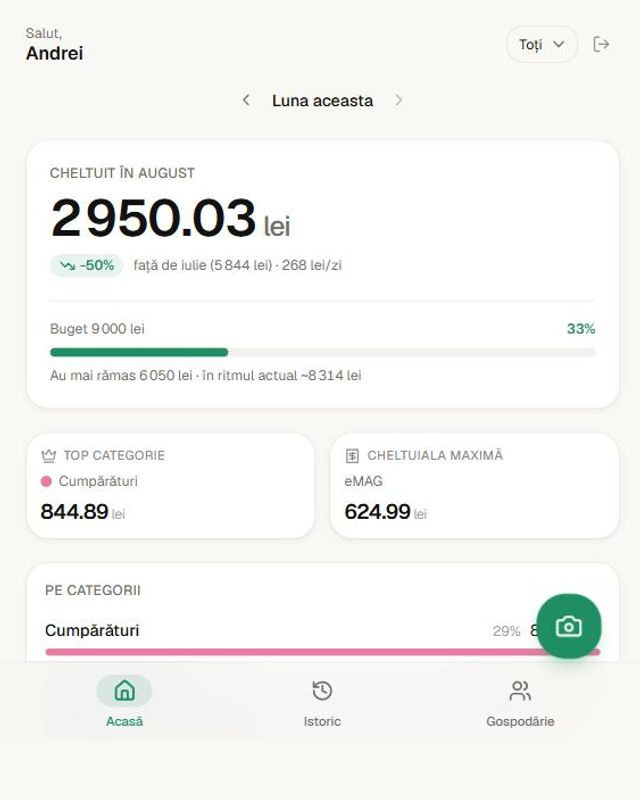
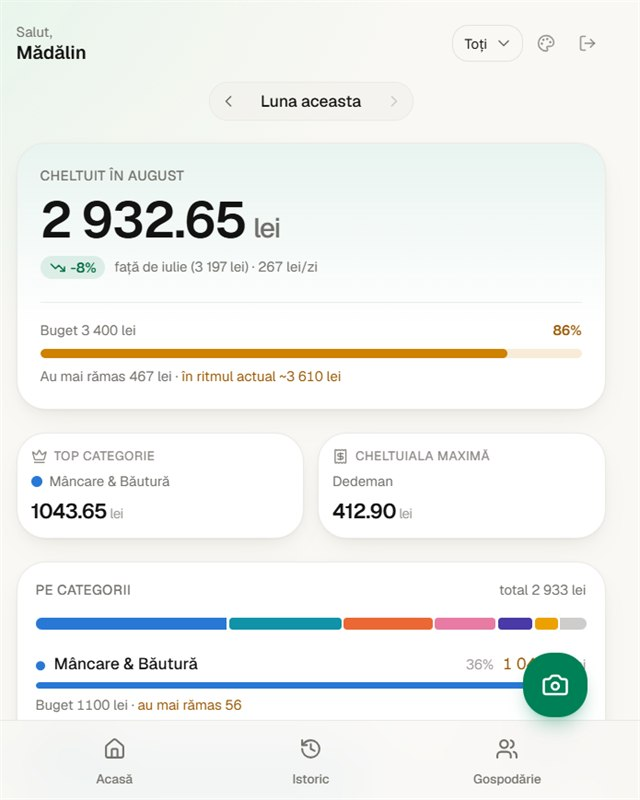
Regenerate the screenshots and rework the README
Every screenshot predates the UI overhaul, so all nine are recaptured against
the new palettes, charts and headers, at the same 640x800 the set already used.
Four more show the same dashboard in each palette — two light, two dark — which
is the one thing a list of feature bullets cannot convey.

They are captured from a seeded household rather than from a real account: a
budget most of the way through, a category over its limit, twelve months of
history, a second member, a pending invitation. The previous set showed
whatever the month happened to look like, so several cards were empty or
uninteresting, and it put real spending into a public repository.

The README itself leads with the product instead of a wall of prose. The
screenshot grid gains a caption per shot saying what the screen is for, the
stack becomes a table, and the setup detail that only matters once — the
environment variable reference — moves behind a disclosure. A new "decisions
worth knowing" section records the five choices a reader would otherwise have
to reverse-engineer from the source: aggregation in Postgres, access enforced
by RLS rather than by the UI, colour chosen by validator rather than by eye,
the theme applied before the first paint, and no chart hiding its numbers
behind a pointer.

diff --git a/README.md b/README.md
@@ -1,55 +1,107 @@
-# SnapBudget
+<div align="center">
 
-Track your expenses by photographing receipts — no manual entry. Snap a photo, OCR extracts the merchant, amount, and date, and the app auto-categorizes the spend. Expenses without a receipt (cash, parking, etc.) can be logged manually, recurring bills add themselves on a schedule, and a whole household can pool its spending into one set of totals. The dashboard surfaces month-over-month trends so spending patterns are visible at a glance, not just totals.
+# 📸 SnapBudget
 
-> The product UI is in Romanian and amounts are in lei (RON), as the screenshots show. Code, comments, and docs are in English.
+**Fotografiază bonul, restul îl facem noi.**
 
-## Screenshots
+Track spending by photographing receipts — no manual entry. Snap a photo, OCR pulls out the merchant, amount and date, and the spend categorizes itself. Cash goes in by hand, rent adds itself on a schedule, and a whole household pools into one set of totals.
+
+<!-- prettier-ignore -->
+[![CI](https://github.com/madalincmc/snapbudget/actions/workflows/ci.yml/badge.svg)](https://github.com/madalincmc/snapbudget/actions/workflows/ci.yml) [![Next.js 16](https://img.shields.io/badge/Next.js-16-000?logo=nextdotjs&logoColor=white)](https://nextjs.org) [![React 19](https://img.shields.io/badge/React-19-087ea4?logo=react&logoColor=white)](https://react.dev) [![TypeScript](https://img.shields.io/badge/TypeScript-strict-3178c6?logo=typescript&logoColor=white)](https://www.typescriptlang.org) [![Tailwind v4](https://img.shields.io/badge/Tailwind-v4-38bdf8?logo=tailwindcss&logoColor=white)](https://tailwindcss.com) [![Supabase](https://img.shields.io/badge/Supabase-RLS-3ecf8e?logo=supabase&logoColor=white)](https://supabase.com) [![Vercel](https://img.shields.io/badge/Vercel-deployed-000?logo=vercel&logoColor=white)](https://vercel.com)
+
+</div>
+
+> [!NOTE]
+> The product UI is in Romanian and amounts are in lei (RON), as the screenshots show.
+> Code, comments and docs are in English.
+
+---
+
+## A look at it
 
 <table>
   <tr>
     <td align="center" width="33%">
-      <img src="docs/screenshots/login.jpg" alt="Sign in with Google" width="260"><br>
-      <sub>Sign in with Google</sub>
+      <img src="docs/screenshots/dashboard-overview.jpg" alt="Dashboard: the month total, how much of the budget is gone, and where the month lands at the current pace" width="250"><br>
+      <b>The number, and whether it's a problem</b><br>
+      <sub>Month total, budget, and the pace projection</sub>
     </td>
     <td align="center" width="33%">
-      <img src="docs/screenshots/receipt-scan.jpg" alt="Photograph or upload a receipt" width="260"><br>
-      <sub>Photograph or upload a receipt</sub>
+      <img src="docs/screenshots/dashboard-trend.jpg" alt="Per-category bars with budget ticks, above a 30-day column chart" width="250"><br>
+      <b>Where it went, day by day</b><br>
+      <sub>Category limits and the 30-day trend</sub>
     </td>
     <td align="center" width="33%">
-      <img src="docs/screenshots/history.jpg" alt="Searchable, filterable expense history" width="260"><br>
-      <sub>Searchable, filterable history</sub>
-    </td>
-  </tr>
-  <tr>
-    <td align="center" width="33%">
-      <img src="docs/screenshots/dashboard-overview.jpg" alt="Dashboard: month total with budget progress, insights and category breakdown" width="260"><br>
-      <sub>Month total, budget &amp; categories</sub>
-    </td>
-    <td align="center" width="33%">
-      <img src="docs/screenshots/dashboard-trend.jpg" alt="Dashboard: per-category budgets and the 30-day spending chart" width="260"><br>
-      <sub>Category limits &amp; 30-day trend</sub>
-    </td>
-    <td align="center" width="33%">
-      <img src="docs/screenshots/budgets.jpg" alt="Monthly budget with pace projection, plus per-category limits" width="260"><br>
-      <sub>Budgets, overall &amp; per category</sub>
+      <img src="docs/screenshots/receipt-scan.jpg" alt="Photograph or upload a receipt" width="250"><br>
+      <b>One tap from anywhere</b><br>
+      <sub>Photograph a receipt, or pick from the gallery</sub>
     </td>
   </tr>
   <tr>
     <td align="center" width="33%">
-      <img src="docs/screenshots/analytics.jpg" alt="Twelve-month spending chart with the average marked, year total and monthly average" width="260"><br>
-      <sub>12 months, average &amp; year total</sub>
+      <img src="docs/screenshots/analytics.jpg" alt="Twelve-month column chart with the average marked, plus year total and monthly average" width="250"><br>
+      <b>Twelve months against your average</b><br>
+      <sub>Year total, monthly mean, per-category trends</sub>
     </td>
     <td align="center" width="33%">
-      <img src="docs/screenshots/recurring.jpg" alt="Recurring expense rules, with pause and resume" width="260"><br>
-      <sub>Recurring rules, pause &amp; resume</sub>
+      <img src="docs/screenshots/history.jpg" alt="Searchable, filterable expense history" width="250"><br>
+      <b>Every expense, findable</b><br>
+      <sub>Search, filter and sort — receipt or manual</sub>
     </td>
     <td align="center" width="33%">
-      <img src="docs/screenshots/household.jpg" alt="Household members and pending invitations" width="260"><br>
-      <sub>Shared household &amp; invitations</sub>
+      <img src="docs/screenshots/budgets.jpg" alt="Monthly budget with pace projection, plus per-category limits" width="250"><br>
+      <b>Limits that warn you early</b><br>
+      <sub>Overall and per category, household or personal</sub>
+    </td>
+  </tr>
+  <tr>
+    <td align="center" width="33%">
+      <img src="docs/screenshots/recurring.jpg" alt="Recurring expense rules, with pause and resume" width="250"><br>
+      <b>Bills that add themselves</b><br>
+      <sub>Rent, subscriptions, utilities — pause any time</sub>
+    </td>
+    <td align="center" width="33%">
+      <img src="docs/screenshots/household.jpg" alt="Household members and pending invitations" width="250"><br>
+      <b>One household, separate accounts</b><br>
+      <sub>Invite by email, enforced by row-level security</sub>
+    </td>
+    <td align="center" width="33%">
+      <img src="docs/screenshots/login.jpg" alt="Sign in with Google" width="250"><br>
+      <b>No password to forget</b><br>
+      <sub>Google sign-in through Supabase</sub>
     </td>
   </tr>
 </table>
+
+### Four palettes, light and dark
+
+The accent hue and the warmth of the neutrals move together; every surface keeps the same
+lightness, so a screen tuned in one palette is tuned in all four. Category colours deliberately
+_don't_ move — they identify a category, and repainting Transport because you changed accent
+would break what you already learned.
+
+<table>
+  <tr>
+    <td align="center" width="25%">
+      <img src="docs/screenshots/palette-smarald.jpg" alt="Smarald palette, light theme" width="220"><br>
+      <sub><b>Smarald</b> · luminos</sub>
+    </td>
+    <td align="center" width="25%">
+      <img src="docs/screenshots/palette-ocean.jpg" alt="Ocean palette, light theme" width="220"><br>
+      <sub><b>Ocean</b> · luminos</sub>
+    </td>
+    <td align="center" width="25%">
+      <img src="docs/screenshots/palette-apus.jpg" alt="Apus palette, dark theme" width="220"><br>
+      <sub><b>Apus</b> · întunecat</sub>
+    </td>
+    <td align="center" width="25%">
+      <img src="docs/screenshots/palette-levantica.jpg" alt="Levănțică palette, dark theme" width="220"><br>
+      <sub><b>Levănțică</b> · întunecat</sub>
+    </td>
+  </tr>
+</table>
+
+---
 
 ## Features
 
@@ -59,31 +111,89 @@ Track your expenses by photographing receipts — no manual entry. Snap a photo,
 - **Household sharing** — create a household and invite others by email. Everyone contributes from their own account and sees the combined totals, and the dashboard can be filtered to one member or just yourself. Owners can cancel invitations and remove members; members can leave. Access is enforced by Postgres row-level security, not just in the UI.
 - **Budgets** — a monthly limit on the total and/or per category. The dashboard shows how much is used, what's left, and where the month lands at the current pace, so going over is visible days before it happens rather than after. In a household the budget can cover everyone's pooled spending or just your own; which one you see follows the same member filter as the rest of the dashboard.
 - **Dashboard insights** — current vs. previous month comparison, average daily spend, top category, biggest expense, and a 30-day spending chart that shades the current month apart from the previous one. Any past month can be selected, and the whole dashboard re-scopes to it.
-- **Charts** — the daily and monthly plots share one column chart: hairline gridlines, a dashed average reference line, a direct label on the peak, and hover/arrow-key readout of any column. Every chart also renders a visually hidden table of the same numbers, so a value is never reachable only by pointer. Category spending gets a stacked composition bar above the ranked list, with the two cross-highlighting each other.
-- **12-month analysis** — totals per month against the average, the calendar-year total, and a per-category trend showing which categories are creeping up. Summed in Postgres rather than in the app, so a year of a shared household's expenses is never pulled into memory to be added up.
+- **Charts** — the daily and monthly plots share one column chart: hairline gridlines, a dashed average reference line, a direct label on the peak, and hover or arrow-key readout of any column. Category spending gets a stacked composition bar above the ranked list, with the two cross-highlighting each other.
+- **12-month analysis** — totals per month against the average, the calendar-year total, and a per-category trend showing which categories are creeping up.
 - **Category breakdown** — spending by category for the current month, with a searchable category/subcategory picker when logging an expense.
 - **History** — search, filter (category, month), and sort every expense, receipt or manual.
-- **Themes and colour palettes** — the dashboard header opens an appearance menu with two independent choices: the theme (automatic / light / dark) and one of four palettes — Smarald, Ocean, Apus, Levănțică. Automatic follows the operating system and keeps following it while the app is open. Both choices are remembered and applied before the first paint, so reopening the app never flashes the wrong colours. Category colours deliberately stay fixed across palettes: they identify a category, and repainting Transport because you changed accent would break what the reader already learned. Budget status (within / near / over) is likewise on reserved semantic colours rather than the accent.
+- **Themes and colour palettes** — an appearance menu with two independent choices: the theme (automatic / light / dark) and one of four palettes. Automatic follows the operating system and keeps following it while the app is open, and both choices survive a reload.
 - **Google sign-in** — auth via Supabase, no separate SnapBudget password.
+
+---
 
 ## Stack
 
-- **Frontend**: Next.js (App Router) + TypeScript + Tailwind CSS + shadcn/ui
-- **Backend & DB**: Supabase (Postgres + Auth + Storage), with row-level security on every table
-- **Scheduling**: `pg_cron` inside Postgres — a nightly sweep generates due recurring expenses, so no service-role key is needed to run it
-- **OCR**: Google Vision API
-- **Payments**: Stripe — env vars are scaffolded (see below) but billing isn't wired into the product yet
-- **Hosting**: Vercel
+| Layer          | What                                                                                                                |
+| -------------- | ------------------------------------------------------------------------------------------------------------------- |
+| **Frontend**   | Next.js 16 (App Router) · React 19 · TypeScript (strict) · Tailwind CSS v4 · shadcn/ui on Base UI                   |
+| **Backend**    | Supabase — Postgres, Auth, Storage — with row-level security on **every** table                                     |
+| **Scheduling** | `pg_cron` inside Postgres: a nightly sweep mints due recurring expenses, so no service-role key is needed to run it |
+| **OCR**        | Google Vision API                                                                                                   |
+| **Payments**   | Stripe — env vars are scaffolded (see below), but billing isn't wired into the product yet                          |
+| **Hosting**    | Vercel — preview per PR, production on merge to `main`                                                              |
+
+## A few decisions worth knowing
+
+<details>
+<summary><b>Aggregation happens in Postgres, not in the app</b></summary>
+
+The 12-month analysis calls a `monthly_spending` RPC that groups and sums in the database. A
+year of a shared household's expenses is exactly the set that should never be pulled into a
+serverless function to be added up there.
+
+</details>
+
+<details>
+<summary><b>Access is enforced by RLS, not by the UI</b></summary>
+
+Household visibility, budget scoping and every read path go through row-level security
+policies. The UI filters are a convenience on top; removing them wouldn't leak a row. Four
+end-to-end scripts (81 checks) exercise those policies against a real project — see
+[Testing](#testing).
+
+</details>
+
+<details>
+<summary><b>Colour is computed, not eyeballed</b></summary>
+
+The eight category hues are validated as a categorical palette: worst adjacent pair ΔE 12.9
+(light) / 10.5 (dark) under simulated deuteranopia, against a target of 8. Every `-ink` step
+clears 4.5:1 as text on its own surface. Accents sit at a fixed lightness with chroma fitted to
+the sRGB gamut per hue, which is what keeps white-on-accent readable in all four palettes.
+
+Status colours (within / near / over budget) are reserved and never reused for a category —
+binding "within budget" to the accent would have made the Apus palette read good → warning →
+over as coral → amber → red, three warm hues with no severity gradient between them.
+
+</details>
+
+<details>
+<summary><b>The theme is applied before the first paint</b></summary>
+
+An inline script in `<head>` resolves the stored preference and writes `data-theme` and
+`data-palette` onto `<html>` before the browser paints, so reopening the app never flashes the
+wrong colours. "System" is a preference, never a rendered state — the DOM only ever carries a
+concrete `light` or `dark`, so CSS never has to express "follow the OS".
+
+</details>
+
+<details>
+<summary><b>No chart hides its numbers behind a pointer</b></summary>
+
+Every chart renders a visually hidden table of the same values alongside the plot, and columns
+are reachable with the arrow keys. All motion is switched off wholesale under
+`prefers-reduced-motion`.
+
+</details>
 
 ## Project structure
 
 ```
-app/                  # Next.js App Router routes (dashboard, history, household, recurring, budgets, analytics, receipts)
+app/                  # App Router routes (dashboard, history, household, recurring, budgets, analytics, receipts)
 app/globals.css       # Design tokens: the four palettes, category + status colours, motion primitives
-components/           # Reusable UI components (shadcn/ui primitives under components/ui, charts under components/charts)
-lib/                  # Supabase clients, OCR, categorization, dashboard aggregation
+components/           # UI components — shadcn/ui primitives in components/ui, plots in components/charts
+lib/                  # Supabase clients, OCR, categorization, dashboard aggregation, theme
 __tests__/            # Vitest unit tests for the pure date/money logic
-supabase/migrations/  # SQL migrations: schema, RLS policies, pg_cron job, aggregate RPC
+supabase/migrations/  # SQL: schema, RLS policies, pg_cron job, aggregate RPC
 scripts/              # Migration runner and end-to-end RLS/recurring checks
 types/                # Shared TypeScript types
 docs/screenshots/     # Images used in this README
@@ -113,6 +223,9 @@ Copy the example file and fill in the values:
 cp .env.example .env.local
 ```
 
+<details>
+<summary><b>What each variable is for</b></summary>
+
 | Variable                                                   | Description                                                                                       |
 | ---------------------------------------------------------- | ------------------------------------------------------------------------------------------------- |
 | `NEXT_PUBLIC_SITE_URL`                                     | Base URL of the app (`http://localhost:3000` locally)                                             |
@@ -125,6 +238,8 @@ cp .env.example .env.local
 | `STRIPE_SECRET_KEY` / `NEXT_PUBLIC_STRIPE_PUBLISHABLE_KEY` | Stripe API keys                                                                                   |
 | `STRIPE_WEBHOOK_SECRET`                                    | Signing secret for the Stripe webhook endpoint                                                    |
 | `STRIPE_PRICE_ID`                                          | Price ID for the SnapBudget subscription plan                                                     |
+
+</details>
 
 ### 3. Apply the database migrations
 
@@ -155,9 +270,14 @@ npm run format:check    # Prettier — check only
 npm run db:migrate <f>  # Apply a single SQL migration
 ```
 
-`npm test` covers the pure logic — month bucketing, the month-over-month comparison, budget pace, and the 12-month analytics — with no database needed.
+## Testing
 
-Four end-to-end scripts exercise the trickier database rules against a real Supabase project. All create and delete their own temporary users, so they're safe to re-run:
+**`npm test`** covers the pure logic — month bucketing, the month-over-month comparison, budget
+pace, the 12-month analytics — with no database needed. CI runs it on every pull request
+alongside format, lint, types and a full build.
+
+**Four end-to-end scripts** exercise the trickier database rules against a real Supabase
+project. All create and delete their own temporary users, so they're safe to re-run:
 
 ```bash
 npx dotenv -e .env.local -- node scripts/test-household-flow.mjs    # household sharing + RLS
@@ -165,6 +285,11 @@ npx dotenv -e .env.local -- node scripts/test-recurring-flow.mjs    # recurring 
 npx dotenv -e .env.local -- node scripts/test-budget-flow.mjs       # budget scoping, RLS + unique indexes
 npx dotenv -e .env.local -- node scripts/test-analytics-flow.mjs    # monthly_spending RPC: sums, bounds, RLS
 ```
+
+> [!IMPORTANT]
+> These stay out of CI on purpose: they need the service-role key and write to a live database,
+> and on a public repository that key would have to live in Actions secrets. Run them by hand
+> before merging anything that touches `supabase/migrations/`.
 
 ## Deployment
 
@@ -182,4 +307,11 @@ Environment variables must be configured in the Vercel project settings (Product
 
 ## Branching
 
-`main` is protected — changes land via pull request. Preview deployments are generated automatically for every PR.
+`main` is protected — changes land via pull request. Every PR gets a preview deployment and a
+full CI run; merging to `main` deploys to production.
+
+---
+
+<div align="center">
+<sub>Built with Next.js, Supabase and a lot of receipts.</sub>
+</div>
